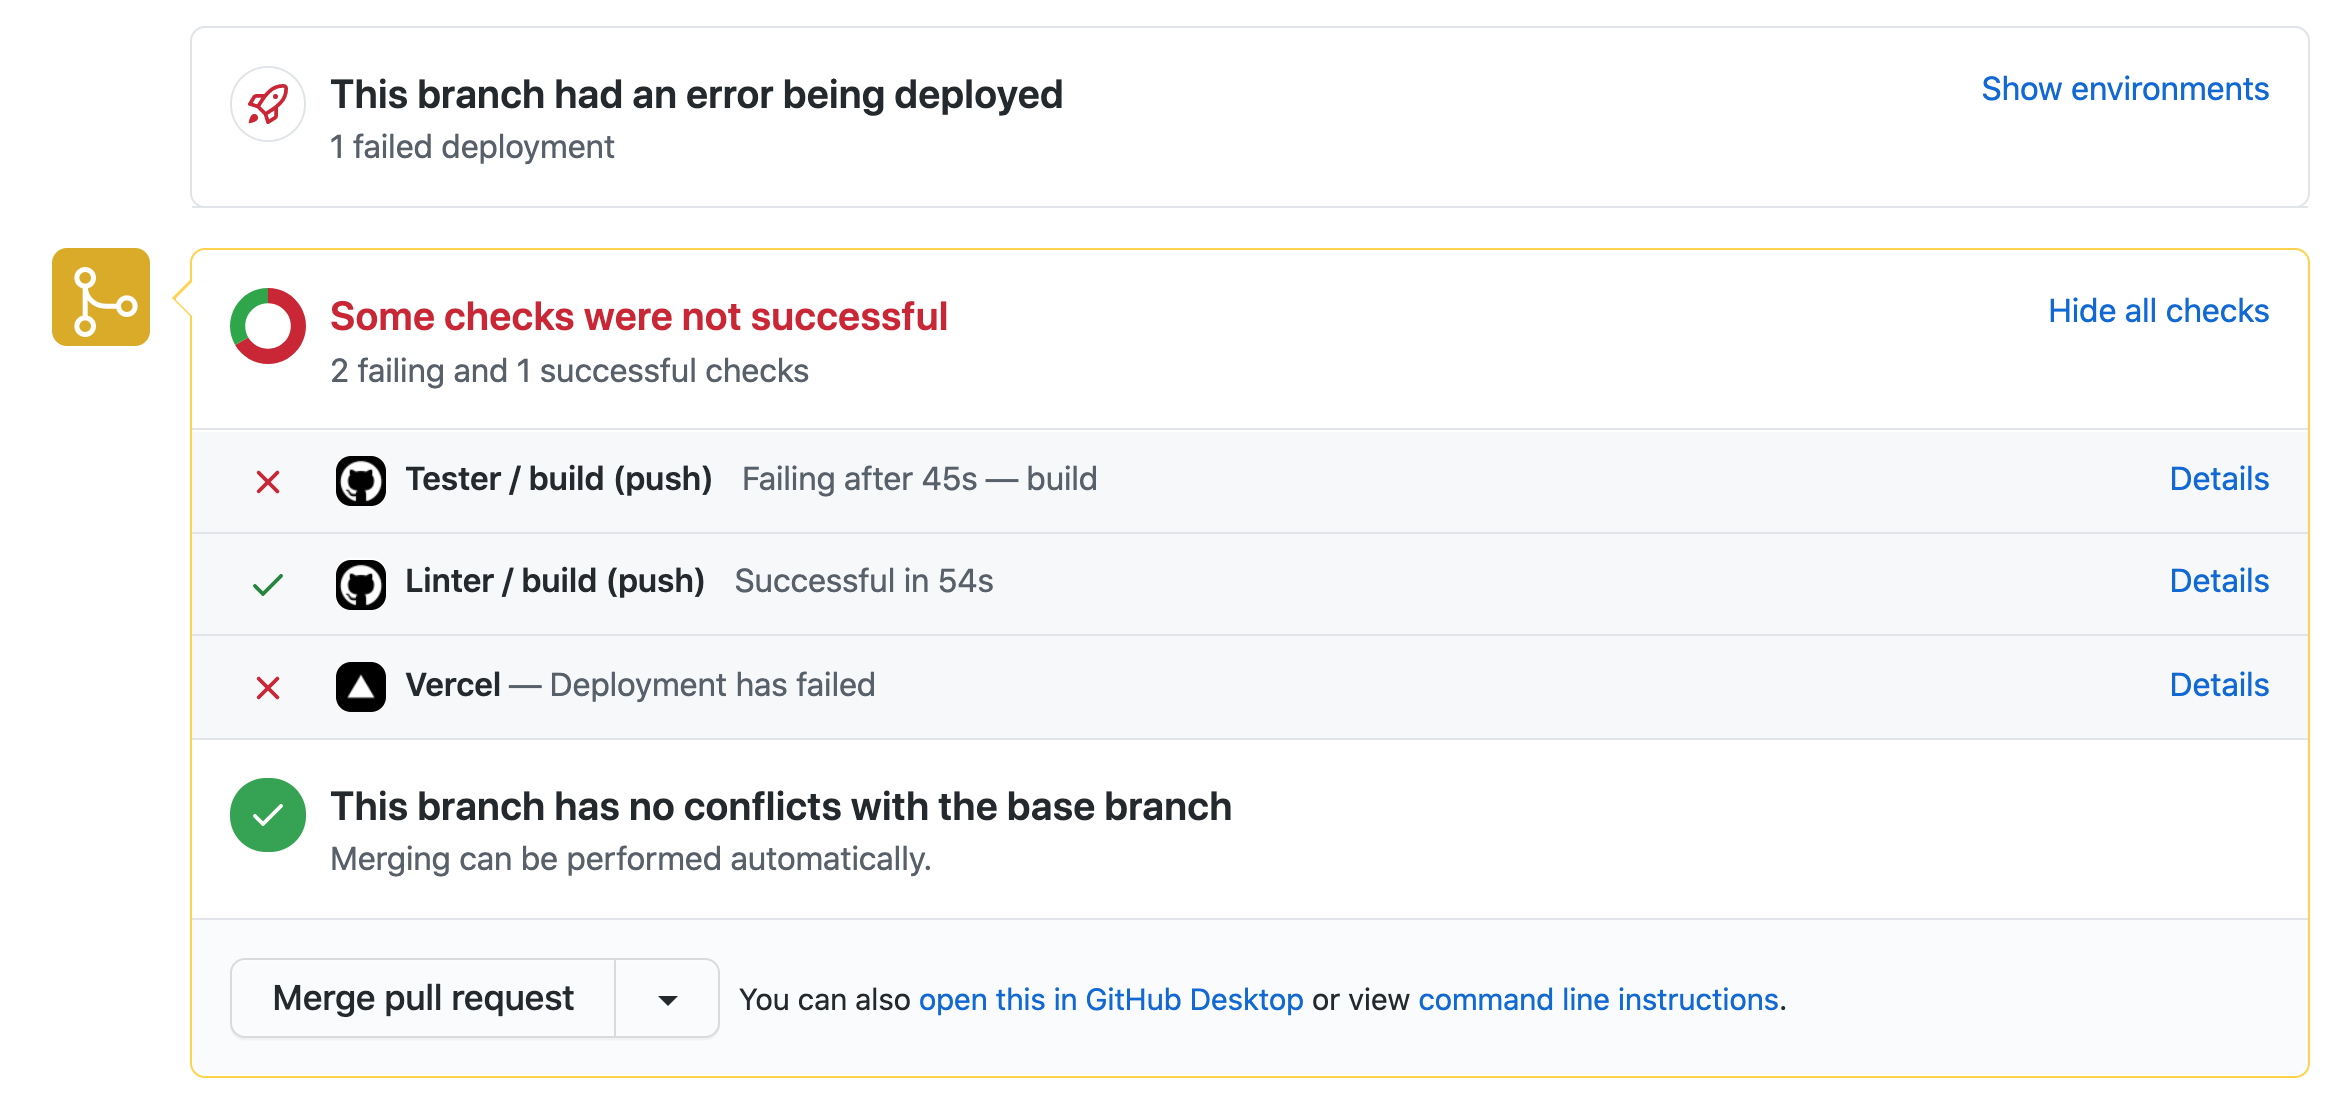
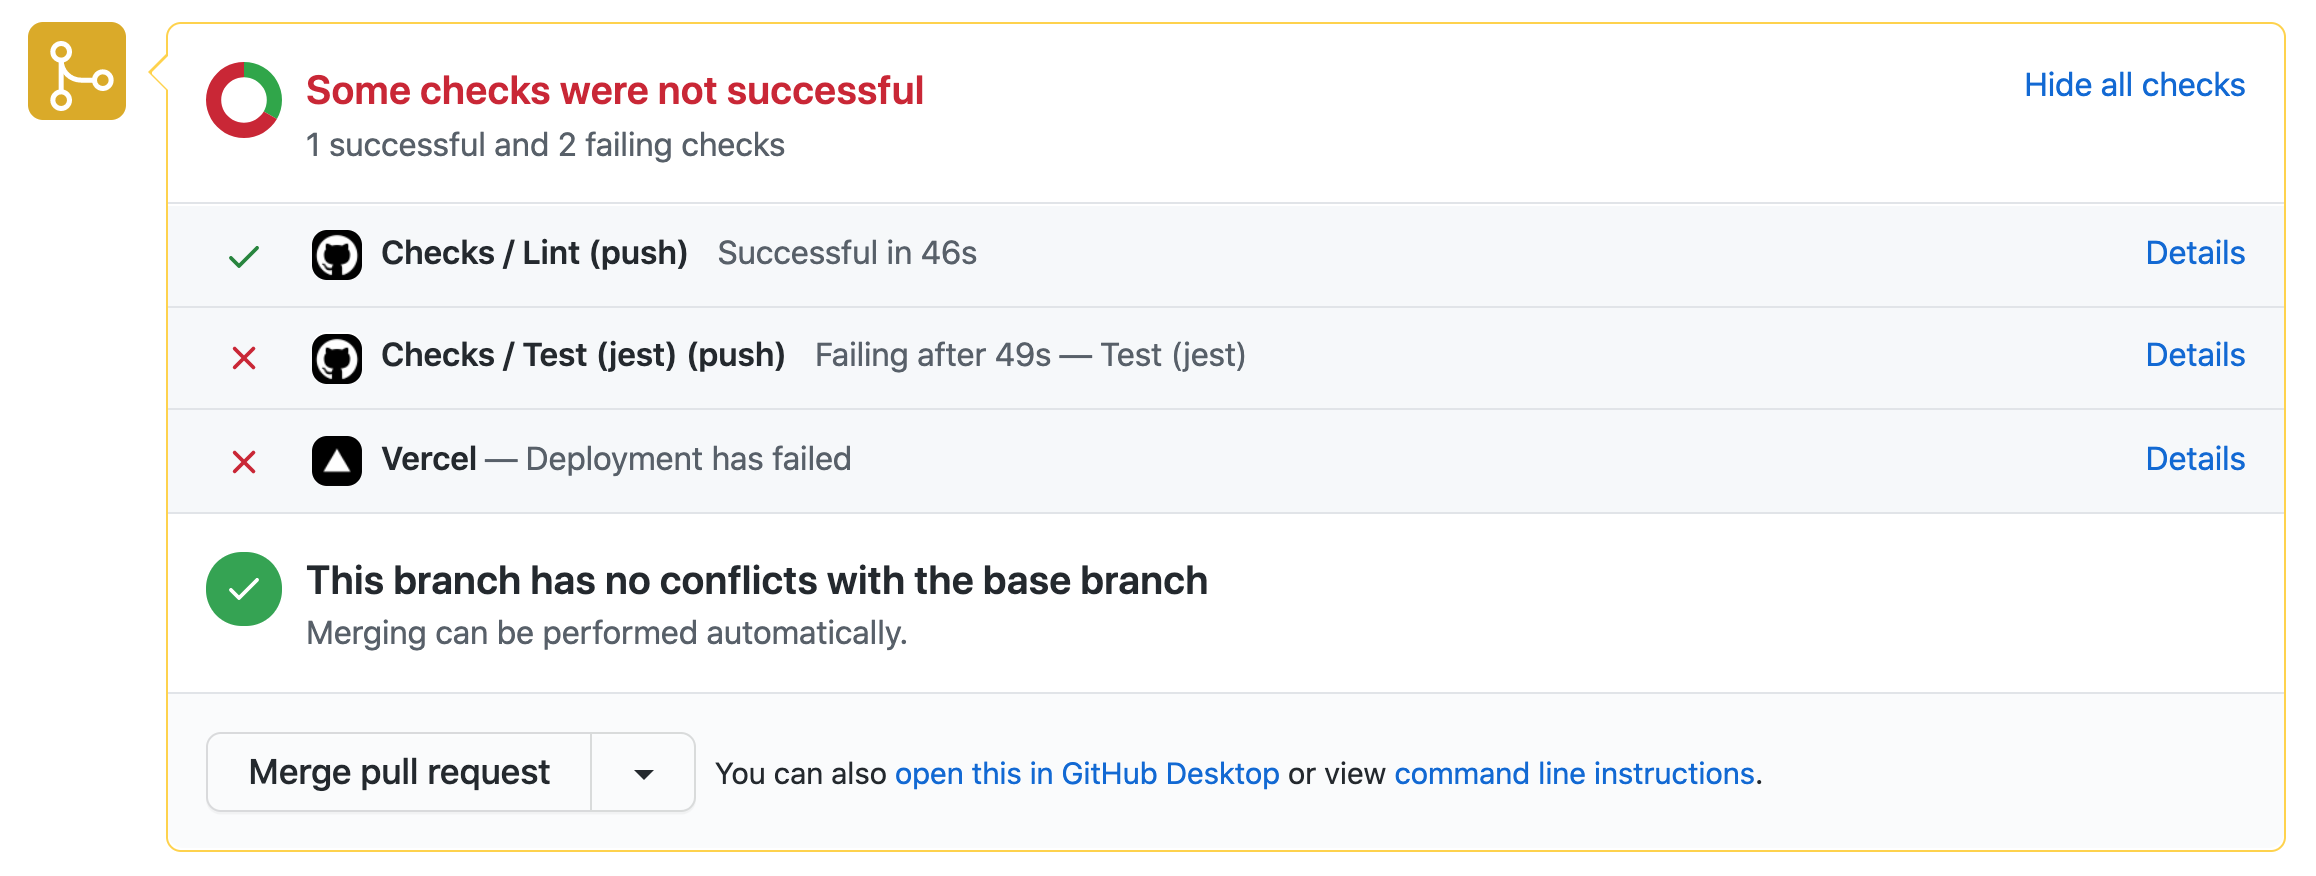
almost final post with updated images

diff --git a/content/posts/adding-github-actions-for-testing-linting-to-all-my-repositories.md b/content/posts/adding-github-actions-for-testing-linting-to-all-my-repositories.md
@@ -1,30 +1,78 @@
 ---
-title: Adding GitHub Actions for testing & linting to all my (npm) repositories
-description: TBD
-image: /posts/almost-free-setup-for-ngos-startups-and-side-projects/header.png
-alt: TBD
+title: Adding GitHub Actions for testing & linting to all my (npm/yarn) repositories
+description: GitHub Actions are easy to configure and should be used in all npm/yarn based projects. 
+image: /posts/adding-github-actions-for-testing-linting-to-all-my-repositories/checks_passed.png
+alt: Passing GitHub Action Workflows with a successful build on a PR.
 tags: 
     - GitHub Actions
     - npm
     - Linting
     - Testing
-tldr: TBD
+tldr: 'GitHub Actions are easy to configure and should be used in all npm/yarn based projects. Checkout the <a href="https://gist.github.com/LukaHarambasic/0ef1c88782b6e8b138d5d0319f5a3a85">Gist</a> if you are only interested in the code.'
 tweet: TBD
 ---
 
-TBD
+## Why should you add this GitHub Actions to your repositories?
 
-![Pull request with GitHub Actions - Checks failed](/posts/adding-github-actions-for-testing-linting-to-all-my-repositories/checks_failed.png)
+GitHub Actions are there to automate workflows directly in GitHub without the need of setting up a full-blown CI/CD pipeline. You can just use them by adding a file to your root directory. Also, the [pricing](https://github.com/pricing) is very accommodating. I think I won't run into the limits with my private projects especially as there aren't limitations for public repositories.
 
-![Pull request with GitHub Actions - Checks in progress](/posts/adding-github-actions-for-testing-linting-to-all-my-repositories/checks_in_progress.png)
+During the time I worked on the Corona-Warn-App I noticed how powerful a CI/CD pipeline is. Therefore, it was clear to me that I want such a safety net for myself. If I'm rushing something or think it's just a quick fix I would love to see this in the PR and not in production. With these two small checks executed for every PR I'll spot errors more easily. It also opens up the possibilities for collaborations, as everybody has to fulfill the same checks.
 
-![Pull request with GitHub Actions - Checks passed](/posts/adding-github-actions-for-testing-linting-to-all-my-repositories/checks_passed.png)
+## Adding GitHub Actions
 
-```yaml[.github/workflows/test.yml]
-name: Tester
+### Prerequisites in package.json
+
+1. Check the name of the scripts you want to be executed. In this example, I want to run `test` & `lint`.
+
+```json[package.json]
+{
+...
+"scripts": {
+    "serve": "vue-cli-service serve",
+    "build": "vue-cli-service build",
+    "test": "vue-cli-service test:unit",
+    "lint": "vue-cli-service lint"
+  }
+...
+}
+```
+
+2. Let `build` fail if `test` or `lint` don't succeed, for that you need to chain the checks with `&` and the final build step with `&&`
+
+```json
+"build": "npm run lint & npm run test && vue-cli-service build",
+```
+
+#### How does the build fails and why?
+
+"Because npm scripts are spawning a shell process under the hood [...]" ([Corgibytes, Kamil Ogórek](https://corgibytes.com/blog/2017/04/18/npm-tips/)) we can use the bash syntax to run our scripts with some additional logic. In this case we are using `&` to run commands in parallel and `&&` to run commands sequentially ([more details](https://www.gnu.org/software/bash/manual/html_node/Lists.html)).
+
+This means if `npm run build` is executed by your build pipeline (e.g. [Netlify](https://www.netlify.com/) or [Vercel](https://vercel.com/dashboard)) it runs the first two commands in parallel and only if they succeed the build will be started.
+
+It's redundant as the GitHub Actions run in parallel to the build task, and the results aren't used for the build. This means the checks happens once on the GitHub Action and a second time on the build. However, since I don't want a build with lint errors or failing tests I'm okay with this redundancy. It looks like I'm not the only one with this requirement ([here](https://github.com/vercel/vercel/discussions/4589) & [here](https://github.com/vercel/vercel/discussions/5420)).
+
+### Implementation
+
+![GitHub Action - Pull request with a failed test job which lead to a failing build](/posts/adding-github-actions-for-testing-linting-to-all-my-repositories/checks_failed.png)
+
+Just add the following file to your root directory in `.github/workflows/`. The name attributes are visible in the PR (see image). You only have to change the last line per job if you also want to run something else, e.g. [Cypress](https://www.cypress.io/). So it's quite easy to adapt it to every other project even if my examples are based on [Vue.js](https://vuejs.org/) and [Nuxt.js](https://nuxtjs.org/):
+
+- [harambasic.de](http://harambasic.de) → only [lint](https://github.com/LukaHarambasic/harambasic.de/pull/22/files#diff-107e910e9f2ebfb9a741fa10b2aa7100cc1fc4f5f3aca2dfe78b905cbd73c0d2) was added (with this post) as I don't have tests until now
+- [jura.education](http://jura.education) → [checks](https://github.com/LukaHarambasic/jura.education/pull/6/files#diff-3ea54af4839eb75404d71b28252bead7e7ec8f676b1f815e1cde02629a75c165) with a lint and test job were added
+
+```yaml
+name: Checks
 on: push
 jobs:
-  build:
+  lint:
+    name: Lint
+    runs-on: ubuntu-latest
+    steps:
+      - uses: actions/checkout@v2
+      - run: npm install
+      - run: npm run lint
+  test:
+    name: Test (jest)
     runs-on: ubuntu-latest
     steps:
       - uses: actions/checkout@v2
@@ -32,18 +80,13 @@ jobs:
       - run: npm run test
 ```
 
-```yaml[.github/workflows/lint.yml]
-name: Linter
-on: push
-jobs:
-  build:
-    runs-on: ubuntu-latest
-    steps:
-      - uses: actions/checkout@v2
-      - run: npm install
-      - run: npm run lint
-```
+<callout>
+    My initial commit with these actions was rejected from GitHub as my personal access token in Webstorm didn't have the permissions to push workflows. So you may need to create a new token for your GitHub client.
+</callout>
 
-<thanks>
-    TBD
-</thanks>
+## Conclusion
+
+I started adding the above workflow to [jura.education](http://jura.education) ([PR](https://github.com/LukaHarambasic/jura.education/pull/6)) and with this post the lint workflow will be added to this website. From here I will add the workflows piece by piece to all my repositories.
+
+I think it's a super simple way to enhance your code quality for no cost. So let's give it a try, even for small personal projects.
+
